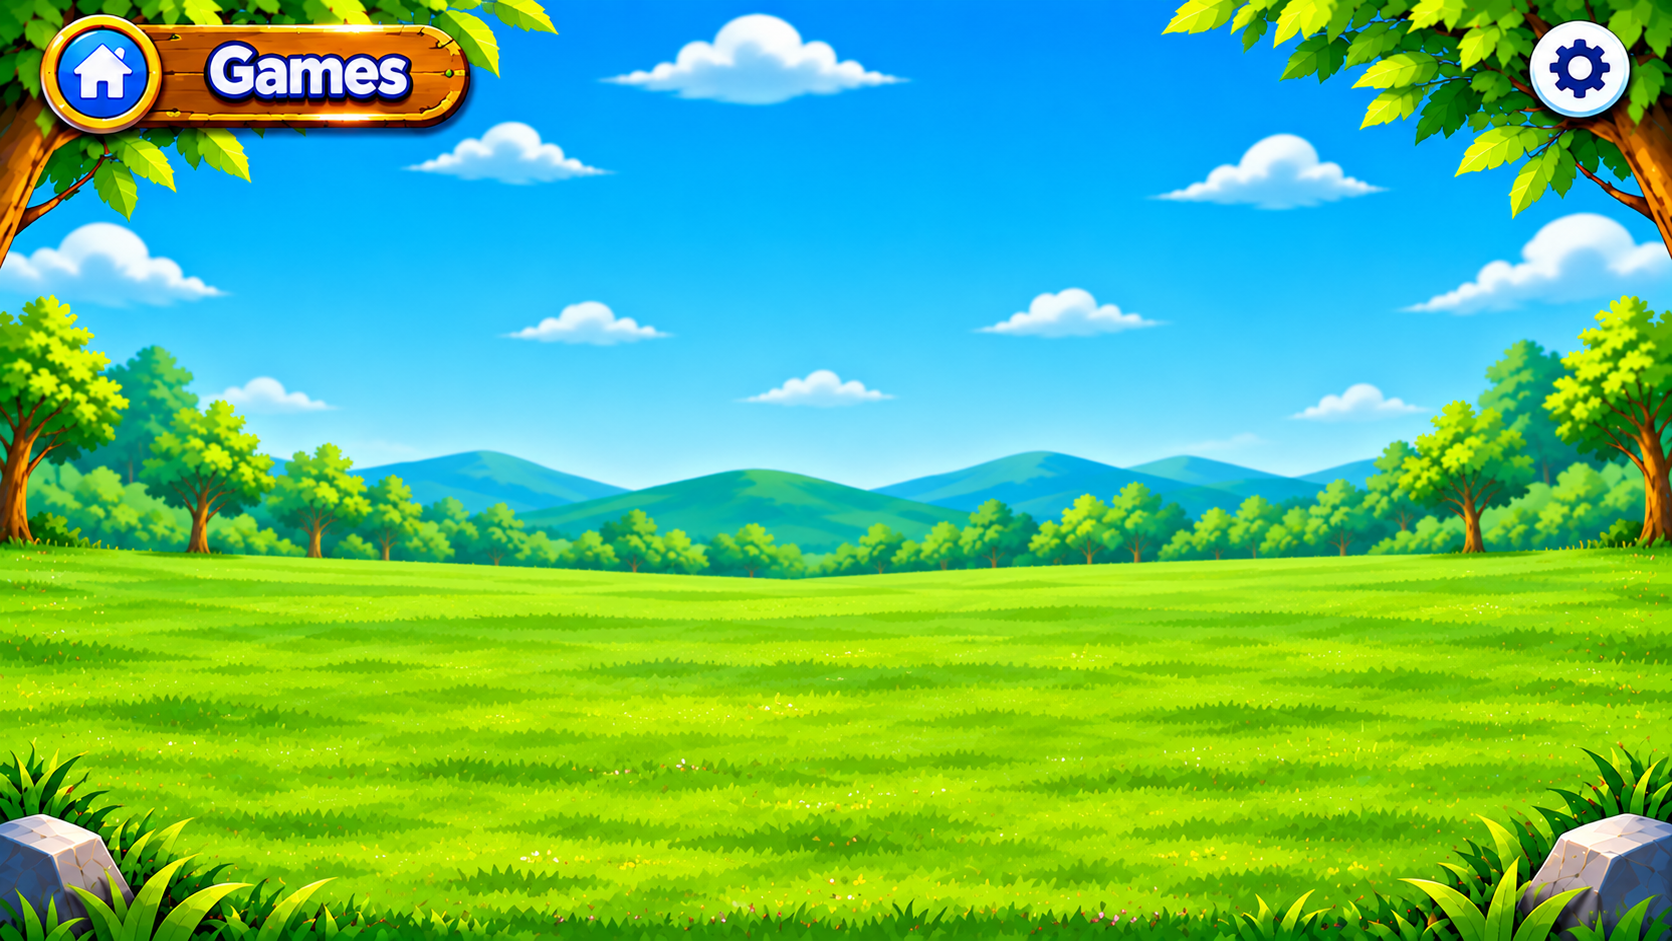
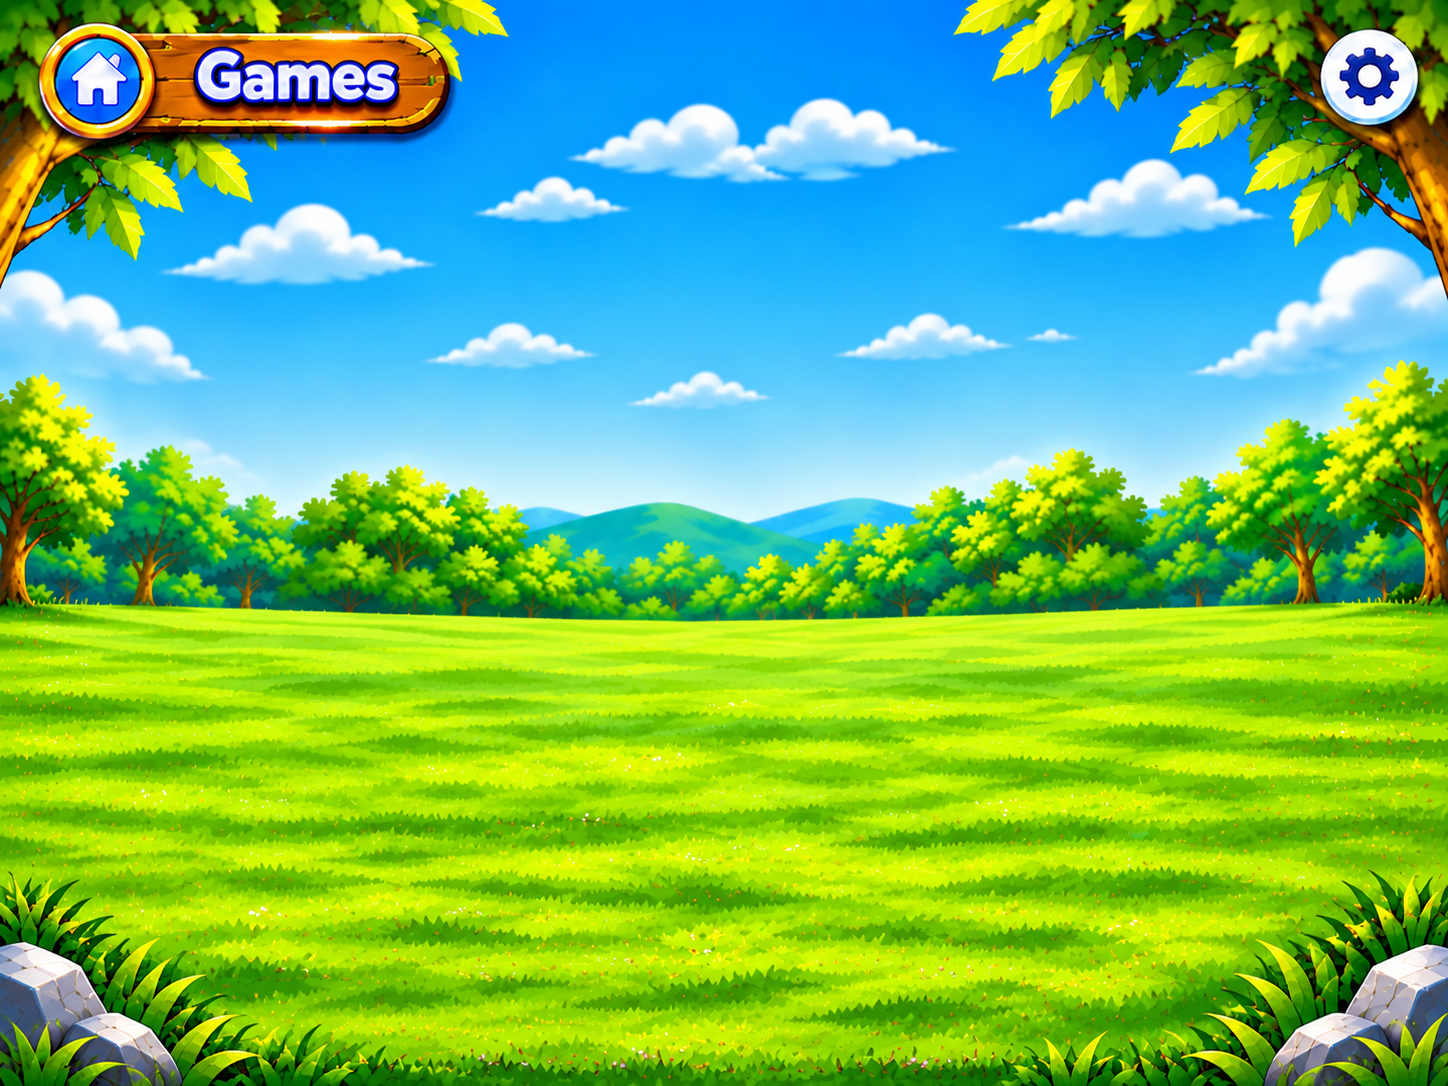
Replace Home/Games/Reading artwork with new 4:3 assets; add Home Layout Tool
New background art for Home, Games, and Reading screens, each ~4:3
(close to a standard iPad's own screen ratio, unlike the previous
~16:9-ish Home art), so they fill the screen with little to no
letterboxing. Icon/button hit-regions repositioned to match each new
image's own drawn elements.

Home screen buttons previously only had a loose CSS-grid auto-layout,
not pixel-matched to specific drawn art -- added a real per-button
pixel-rect map (js/home-overlay.js) plus a Home Layout Tool (Grown-ups
> Home Screen Buttons) so each tile/button can be nudged to line up
with wherever it's actually drawn, same tune-live-then-Copy workflow
as the existing Chores Layout Tool. Refactored that tool's panel shell
CSS into a shared .kz-layout-tool-panel class so both panels reuse it.

diff --git a/js/home-overlay.js b/js/home-overlay.js
@@ -1,14 +1,22 @@
 /* Bind the existing Kid Zone home-screen buttons to the exact hit areas measured off
-   icons/home-background.png (1670 x 941). Does NOT add a new navigation system: app.js
+   icons/home-background.png (1448 x 1086). Does NOT add a new navigation system: app.js
    still owns every click handler, config.js still owns the SECTIONS list -- this only
-   moves the existing #section-grid buttons to sit on top of the matching artwork. */
+   moves the existing #section-grid buttons to sit on top of the matching artwork.
+
+   Also owns the Home Layout Tool (Grown-ups > Home Screen Buttons): a live tuning panel,
+   same "adjust while looking at the real screen, then Copy and bake the numbers in for
+   good" pattern as the Chores Layout Tool (js/kid-rewards.js), just working in this file's
+   own pixel-rect coordinate space instead of CSS custom properties. */
 (() => {
-  const W = 1670, H = 941;
-  const rects = {
-    games: [47, 419, 257, 221], coloring: [310, 419, 256, 221],
-    reading: [572, 419, 253, 221], math: [832, 419, 254, 221],
-    puzzles: [1090, 419, 254, 221], music: [1350, 419, 255, 221],
-    chores: [196, 700, 612, 140], store: [830, 700, 621, 140],
+  const W = 1448, H = 1086;
+  // Starting rects for the current artwork ("Kid_Zone_Home_iPad_1448x1086") -- eyeballed
+  // from the image, not pixel-measured, so expect to nudge them with the tool below.
+  // [x, y, w, h] in artwork pixels, top-left origin.
+  const DEFAULT_RECTS = {
+    games: [36, 505, 210, 239], coloring: [264, 505, 210, 239],
+    reading: [491, 505, 210, 239], math: [718, 505, 210, 239],
+    puzzles: [946, 505, 210, 239], music: [1173, 505, 210, 239],
+    chores: [116, 820, 564, 130], store: [767, 820, 565, 130],
   };
   const labels = {
     games: 'Games', coloring: 'Coloring', reading: 'Reading', math: 'Math',
@@ -19,6 +27,11 @@
   const grid = document.getElementById('section-grid');
   if (!home || !grid) return;
   home.classList.add('kz-art-home');
+
+  // ---- Draft overrides (Home Layout Tool), same "localStorage-only, not shipped" pattern
+  // as js/kid-rewards.js's CHORES_LAYOUT_LOCAL_KEY. ----
+  const HOME_LAYOUT_LOCAL_KEY = 'family-app.home-layout-DRAFT';
+  let rects = { ...DEFAULT_RECTS, ...(getData(HOME_LAYOUT_LOCAL_KEY, null) || {}) };
 
   const apply = () => {
     for (const btn of grid.querySelectorAll('button[data-section]')) {
@@ -40,4 +53,82 @@
   // enters the home screen, so re-apply positions whenever that happens.
   new MutationObserver(apply).observe(grid, { childList: true });
   apply();
+
+  // ---- Home Layout Tool ----
+  const IDS = Object.keys(DEFAULT_RECTS);
+  const FIELD_LABELS = ['Left', 'Up/down', 'Width', 'Height'];
+
+  const panel = document.createElement('aside');
+  panel.id = 'home-layout-panel';
+  panel.className = 'kz-layout-tool-panel hidden';
+  panel.setAttribute('aria-label', 'Home layout tool');
+  panel.innerHTML =
+    `<div class="chores-layout-head"><strong>Home Layout Tool</strong>` +
+    `<button type="button" id="home-layout-done-btn" class="big-btn primary-btn">✅ Done</button></div>` +
+    IDS.map((id) => {
+      const section = `<div class="chores-layout-section">${labels[id]}</div>`;
+      const rows = FIELD_LABELS.map((fieldLabel, i) => {
+        const max = i % 2 === 0 ? W : H; // Left/Width slide across W; Up-down/Height across H
+        return `<label for="hl-${id}-${i}">${fieldLabel} <output id="hl-${id}-${i}-val"></output></label>` +
+          `<input type="range" id="hl-${id}-${i}" min="0" max="${max}" step="1" value="${DEFAULT_RECTS[id][i]}">`;
+      }).join('');
+      return section + rows;
+    }).join('') +
+    `<div class="chores-layout-actions">` +
+    `<button type="button" id="home-layout-reset-btn" class="big-btn">Reset to Default</button>` +
+    `<button type="button" id="home-layout-copy-btn" class="big-btn primary-btn">📋 Copy Rects</button>` +
+    `</div>`;
+  document.body.appendChild(panel);
+
+  function syncSliders() {
+    IDS.forEach((id) => {
+      rects[id].forEach((v, i) => {
+        const input = document.getElementById(`hl-${id}-${i}`);
+        if (input) input.value = v;
+        const out = document.getElementById(`hl-${id}-${i}-val`);
+        if (out) out.textContent = v + 'px';
+      });
+    });
+  }
+  syncSliders();
+
+  IDS.forEach((id) => {
+    [0, 1, 2, 3].forEach((i) => {
+      const input = document.getElementById(`hl-${id}-${i}`);
+      input.addEventListener('input', () => {
+        rects = { ...rects, [id]: rects[id].map((v, j) => (j === i ? Number(input.value) : v)) };
+        apply();
+        syncSliders();
+        setData(HOME_LAYOUT_LOCAL_KEY, rects); // draft only, so re-opening keeps your in-progress numbers
+      });
+    });
+  });
+
+  document.getElementById('home-layout-open-btn').addEventListener('click', () => {
+    window.AppBridge.enterHome();
+    panel.classList.remove('hidden');
+  });
+  document.getElementById('home-layout-done-btn').addEventListener('click', () => {
+    panel.classList.add('hidden');
+    window.AppBridge.enterParentArea();
+  });
+  document.getElementById('home-layout-reset-btn').addEventListener('click', () => {
+    rects = JSON.parse(JSON.stringify(DEFAULT_RECTS));
+    apply();
+    syncSliders();
+    setData(HOME_LAYOUT_LOCAL_KEY, rects);
+  });
+  document.getElementById('home-layout-copy-btn').addEventListener('click', async () => {
+    const text = `const DEFAULT_RECTS = {\n` +
+      IDS.map((id) => `    ${id}: [${rects[id].join(', ')}],`).join('\n') +
+      `\n  };`;
+    const btn = document.getElementById('home-layout-copy-btn');
+    try {
+      await navigator.clipboard.writeText(text);
+      btn.textContent = 'Copied!';
+    } catch {
+      prompt('Copy these rects and send them over:', text);
+    }
+    setTimeout(() => { btn.textContent = '📋 Copy Rects'; }, 1800);
+  });
 })();

diff --git a/reading-carousel.css b/reading-carousel.css
@@ -5,14 +5,12 @@
 
 /* No position override: .screen already sets position:fixed;inset:0 to size the whole screen
    to the viewport -- same fix as games-carousel.css/home-overlay.css needed. */
-/* Locked to the artwork's own 1672x941 ratio and centered/letterboxed in the viewport instead
-   of stretching to fill it (same fix as games-carousel.css/home-overlay.css) -- a standard
-   iPad's screen (landscape ~4:3) is much squarer than this art's ~16:9-ish shape, which was
-   forcing background-size:100% 100% to distort it. Applied to THIS element (not just
-   .screen-inner below) because .sub-header, below, is a sibling of .screen-inner, not a
-   child -- its own % position needs to share the exact same box as everything in .screen-inner
-   to stay aligned with the art's "patched label" it's deliberately positioned under. */
-#subject-screen.kz-reading-redesign{position:fixed;top:50%;left:50%;right:auto;bottom:auto;transform:translate(-50%,-50%);width:100%;height:100%;aspect-ratio:1672/941;max-width:calc(100vh*1672/941);max-height:calc(100vw*941/1672);background:#3ba8ed url('assets/reading-carousel/meadow.png') center/100% 100% no-repeat!important;overflow:hidden}
+/* Locked to the artwork's own 1448x1086 ratio (~4:3, already close to a standard iPad's own
+   screen shape -- little to no letterboxing there) and centered in the viewport instead of
+   stretching to fill it. Applied to THIS element (not just .screen-inner below) because
+   .sub-header, below, is a sibling of .screen-inner, not a child -- its own % position needs
+   to share the exact same box as everything in .screen-inner to stay aligned with the art. */
+#subject-screen.kz-reading-redesign{position:fixed;top:50%;left:50%;right:auto;bottom:auto;transform:translate(-50%,-50%);width:100%;height:100%;aspect-ratio:1448/1086;max-width:calc(100vh*1448/1086);max-height:calc(100vw*1086/1448);background:#3ba8ed url('assets/reading-carousel/meadow.png') center/100% 100% no-repeat!important;overflow:hidden}
 #subject-screen.kz-reading-redesign>.screen-inner>.section-grid{display:none!important}
 #subject-screen.kz-reading-redesign>.screen-inner{position:absolute;inset:0;max-width:none!important;width:100%;height:100%;padding:0!important;margin:0!important;overflow:visible!important}
 
@@ -24,20 +22,21 @@
 #subject-screen:not(.kz-reading-redesign) #kz-reading-carousel{display:none!important}
 
 /* Keep the real level chip working -- just hide the back-button/title text (redundant with the
-   art's own home icon) and reposition the header container itself under the patched label,
-   instead of hiding the whole header (which would also hide the chip, since it's a child of it). */
+   art's own home icon and "Reading" label) and reposition the header container itself to sit
+   just below that plaque, instead of hiding the whole header (which would also hide the chip,
+   since it's a child of it). */
 #subject-screen.kz-reading-redesign>.sub-header{position:absolute;top:13.2%;left:8.8%;width:18%;height:auto;padding:0;margin:0;background:transparent;box-shadow:none;border:0;justify-content:center;z-index:9}
 #subject-screen.kz-reading-redesign>.sub-header>.back-btn,
 #subject-screen.kz-reading-redesign>.sub-header>.sub-header-title{display:none!important}
 
-/* The reused meadow art (same file as the Games screen) still has "Games" baked into its
-   label pill -- no cover/patch over it anymore per request, so that word shows as-is. */
 .kz-reading-home,.kz-reading-settings{display:none}
 
+/* left/top/width/height below are eyeballed from the art's own drawn home-icon/gear-icon
+   circles (in its 1448x1086 pixel grid), not pixel-measured -- nudge if they feel off. */
 #subject-screen.kz-reading-redesign .kz-reading-home,
 #subject-screen.kz-reading-redesign .kz-reading-settings{display:block;position:absolute;z-index:10;border:0;background:transparent;cursor:pointer;touch-action:manipulation}
-#subject-screen.kz-reading-redesign .kz-reading-home{left:2%;top:1%;width:7.5%;height:13%;border-radius:50%}
-#subject-screen.kz-reading-redesign .kz-reading-settings{right:1.5%;top:1%;width:7%;height:12%;border-radius:50%}
+#subject-screen.kz-reading-redesign .kz-reading-home{left:3.6%;top:2.5%;width:6.1%;height:8.4%;border-radius:50%}
+#subject-screen.kz-reading-redesign .kz-reading-settings{right:1.2%;top:2.6%;width:6%;height:8.3%;border-radius:50%}
 
 .kz-reading-card{position:absolute;left:50%;top:49%;width:36%;height:82%;padding:0;border:0;background:transparent;cursor:pointer;will-change:transform,opacity;filter:drop-shadow(0 12px 12px #00305b77);transform-style:preserve-3d;backface-visibility:hidden}
 .kz-reading-card img{width:100%;height:100%;object-fit:contain;pointer-events:none}

diff --git a/home-overlay.css b/home-overlay.css
@@ -1,5 +1,5 @@
 /* Kid Zone home screen artwork overlay.
-   Source artwork: icons/home-background.png, 1670 x 941, unmodified.
+   Source artwork: icons/home-background.png, 1448 x 1086, unmodified.
    This file only repositions existing elements -- app.js/config.js still own every
    click handler and nav route. Loaded after style.css; only applies under #home-screen. */
 
@@ -9,14 +9,13 @@
 #home-screen.kz-art-home { overflow: hidden; }
 
 #home-screen.kz-art-home .home-inner {
-  /* Locked to the artwork's own 1670x941 ratio and centered/letterboxed in the viewport,
-     instead of stretching to fill it -- a standard iPad's screen (landscape ~4:3, much
-     squarer than this art's ~16:9-ish shape) was forcing background-size:100% 100% below to
-     distort the art to fit. Every child here is positioned as a % of THIS box, so locking its
+  /* Locked to the artwork's own 1448x1086 ratio (~4:3, already close to a standard iPad's own
+     screen shape -- little to no letterboxing there) and centered in the viewport instead of
+     stretching to fill it. Every child here is positioned as a % of THIS box, so locking its
      ratio keeps both the art undistorted and every button's alignment with it correct. */
   position: absolute; top: 50%; left: 50%; transform: translate(-50%, -50%);
-  width: 100%; height: 100%; aspect-ratio: 1670 / 941;
-  max-width: calc(100vh * 1670 / 941); max-height: calc(100vw * 941 / 1670);
+  width: 100%; height: 100%; aspect-ratio: 1448 / 1086;
+  max-width: calc(100vh * 1448 / 1086); max-height: calc(100vw * 1086 / 1448);
   padding: 0; margin: 0;
 }
 #home-screen.kz-art-home .home-inner::before {
@@ -54,6 +53,10 @@
   border: 0; background: transparent; box-shadow: none; transform: none;
   opacity: 1; pointer-events: auto; cursor: pointer; border-radius: 17%;
   -webkit-tap-highlight-color: transparent;
+  /* left/top/width/height intentionally NOT set here -- js/home-overlay.js sets those as
+     inline styles (higher specificity than anything here) from its `rects` pixel map, and
+     also drives the Home Layout Tool's live overrides. Don't add them here; they'd just be
+     silently overridden and confusing to read. */
 }
 /* The artwork already shows the icon + label; hide only those two, not the pending-count
    badge or the voice "say it" button, so those stay functional and visible in the corner. */
@@ -69,12 +72,14 @@
 #home-screen.kz-art-home #section-grid > button[data-section="store"] { border-radius: 999px; }
 
 /* Parent gear: hit-region only -- the artwork already draws the gear icon. Positioned inside
-   .home-inner (not .home-header) so its percentages share the same 1670x941 coordinate space
-   as the button rects above. Click handler reuses the existing PIN-gated openParentEntry(). */
+   .home-inner (not .home-header) so its percentages share the same 1448x1086 coordinate space
+   as the button rects above. Click handler reuses the existing PIN-gated openParentEntry().
+   Eyeballed from the art's own drawn gear circle, not pixel-measured -- nudge if it feels off
+   (there's no slider for this one in the Home Layout Tool, just edit the numbers here). */
 #home-screen.kz-art-home #home-parent-settings {
   position: absolute; z-index: 6; background: transparent; border: 0; border-radius: 50%;
   cursor: pointer; -webkit-tap-highlight-color: transparent;
-  left: 91.3174%; top: 2.1254%; width: 5.5689%; height: 9.7768%;
+  right: 1%; top: 2.6%; width: 6.2%; height: 8.3%;
 }
 
 /* Coin/profile chips float over the artwork instead of pushing it down. Not part of the

diff --git a/games-carousel.css b/games-carousel.css
@@ -3,13 +3,15 @@
    once .screen-inner (and everything in it) goes position:absolute below. */
 #games-screen.kz-games-redesign{background:#3ba8ed!important;overflow:hidden}
 #games-screen.kz-games-redesign>.sub-header,#games-screen.kz-games-redesign>.screen-inner>.section-grid{display:none!important}
-/* Locked to the artwork's own 1672x941 ratio and centered/letterboxed in the viewport instead
-   of stretching to fill it -- a standard iPad's screen (landscape ~4:3, much squarer than this
-   art's ~16:9-ish shape) was forcing background-size:100% 100% to distort the art. Every child
-   here (.kz-carousel, the home/settings buttons, etc.) is positioned as a % of THIS box, so
-   locking its ratio keeps both the art undistorted and every button aligned with it. */
-#games-screen.kz-games-redesign>.screen-inner{position:absolute;top:50%;left:50%;right:auto;bottom:auto;transform:translate(-50%,-50%);width:100%;height:100%;aspect-ratio:1672/941;max-width:calc(100vh*1672/941)!important;max-height:calc(100vw*941/1672)!important;padding:0!important;margin:0!important;overflow:visible!important;background:url('assets/games-carousel/games-meadow.png') center/100% 100% no-repeat!important}
-.kz-games-home,.kz-games-settings{position:absolute;z-index:10;border:0;background:transparent;cursor:pointer;touch-action:manipulation}.kz-games-home{left:2%;top:1%;width:7.5%;height:13%;border-radius:50%}.kz-games-settings{right:1.5%;top:1%;width:7%;height:12%;border-radius:50%}
+/* Locked to the artwork's own 1448x1086 ratio (~4:3, already close to a standard iPad's own
+   screen shape -- little to no letterboxing there) and centered in the viewport instead of
+   stretching to fill it. Every child here (.kz-carousel, the home/settings buttons, etc.) is
+   positioned as a % of THIS box, so locking its ratio keeps both the art undistorted and
+   every button aligned with it. */
+#games-screen.kz-games-redesign>.screen-inner{position:absolute;top:50%;left:50%;right:auto;bottom:auto;transform:translate(-50%,-50%);width:100%;height:100%;aspect-ratio:1448/1086;max-width:calc(100vh*1448/1086)!important;max-height:calc(100vw*1086/1448)!important;padding:0!important;margin:0!important;overflow:visible!important;background:url('assets/games-carousel/games-meadow.png') center/100% 100% no-repeat!important}
+/* left/top/width/height below are eyeballed from the art's own drawn home-icon/gear-icon
+   circles (in its 1448x1086 pixel grid), not pixel-measured -- nudge if they feel off. */
+.kz-games-home,.kz-games-settings{position:absolute;z-index:10;border:0;background:transparent;cursor:pointer;touch-action:manipulation}.kz-games-home{left:3.6%;top:2.5%;width:6.1%;height:8.4%;border-radius:50%}.kz-games-settings{right:1.2%;top:2.6%;width:6%;height:8.3%;border-radius:50%}
 .kz-carousel{position:absolute;inset:17% 0 3%;font-family:system-ui,sans-serif;user-select:none;overflow:hidden}
 .kz-carousel-stage{position:absolute;left:10%;right:10%;top:2%;height:76%;perspective:1100px;touch-action:pan-y;cursor:grab}.kz-carousel-stage:active{cursor:grabbing}
 .kz-game-card{position:absolute;left:50%;top:49%;width:36%;height:82%;padding:0;border:0;background:transparent;cursor:pointer;will-change:transform,opacity;filter:drop-shadow(0 12px 12px #00305b77);transform-style:preserve-3d;backface-visibility:hidden}

diff --git a/chores-redesign.css b/chores-redesign.css
@@ -203,17 +203,19 @@
 
 /* ---- Chores Layout Tool: floats over the real Chores screen (Grown-ups > Chores Screen
    Layout > Preview & Adjust). Not scoped to #chores-screen since it's a page-level overlay,
-   like home-photo-live-bar. ---- */
-#chores-layout-panel {
+   like home-photo-live-bar. Shell styling lives on the shared .kz-layout-tool-panel class
+   (also used by the Home Layout Tool, js/home-overlay.js) so both tuning panels look/behave
+   the same without duplicating this block. ---- */
+.kz-layout-tool-panel {
   position: fixed; right: 12px; top: 12px; bottom: 12px; z-index: 60; width: min(360px, calc(100vw - 24px));
   background: #fff; border: 3px solid #2a7dd9; border-radius: 20px; padding: 14px;
   box-shadow: 0 10px 40px rgba(18, 44, 102, .55); color: #122c66; font: 14px system-ui; overflow-y: auto;
 }
-#chores-layout-panel.hidden { display: none; }
+.kz-layout-tool-panel.hidden { display: none; }
 .chores-layout-head { display: flex; align-items: center; justify-content: space-between; gap: 10px; margin-bottom: 4px; }
 .chores-layout-head strong { font-size: 17px; }
 .chores-layout-section { font-size: 14px; font-weight: 900; border-bottom: 1px solid #d6e3f6; padding: 10px 0 4px; margin-top: 8px; }
-#chores-layout-panel label { display: flex; justify-content: space-between; gap: 10px; font-weight: 700; margin-top: 10px; font-size: 13px; }
-#chores-layout-panel input[type=range] { width: 100%; accent-color: #156bd9; margin-top: 2px; }
-#chores-layout-panel .chores-layout-actions { display: flex; gap: 8px; margin-top: 14px; }
-#chores-layout-panel .chores-layout-actions button { flex: 1; }
+.kz-layout-tool-panel label { display: flex; justify-content: space-between; gap: 10px; font-weight: 700; margin-top: 10px; font-size: 13px; }
+.kz-layout-tool-panel input[type=range] { width: 100%; accent-color: #156bd9; margin-top: 2px; }
+.kz-layout-tool-panel .chores-layout-actions { display: flex; gap: 8px; margin-top: 14px; }
+.kz-layout-tool-panel .chores-layout-actions button { flex: 1; }

diff --git a/index.html b/index.html
@@ -776,6 +776,12 @@
         <button type="button" class="big-btn" id="chores-layout-open-btn">📐 Preview &amp; Adjust on Chores Screen</button>
       </div>
 
+      <div class="parent-card" id="home-layout-card">
+        <h3 class="parent-card-title">Home Screen Buttons (tuning tool)</h3>
+        <p class="parent-card-note">Move/resize each home screen button to line up with its spot in the background artwork. This doesn't save permanently -- adjust, tap Copy CSS, and send those numbers over to bake in for good.</p>
+        <button type="button" class="big-btn" id="home-layout-open-btn">📐 Preview &amp; Adjust on Home Screen</button>
+      </div>
+
       <div class="parent-card" id="parent-setup-card">
         <h3 class="parent-card-title">Setup for all iPads</h3>
         <p class="parent-card-note">Chores, store items and coin rules. Changes save instantly and sync to every iPad. Adding a brand-new photo still needs a desktop computer; emoji pictures work anywhere.</p>
@@ -956,7 +962,7 @@
 
   <!-- ================= Chores Layout Tool: floats over the real Chores screen so Grown-ups
        can see the header/banner/pills while adjusting ================= -->
-  <aside id="chores-layout-panel" class="hidden" aria-label="Chores layout tool">
+  <aside id="chores-layout-panel" class="kz-layout-tool-panel hidden" aria-label="Chores layout tool">
     <div class="chores-layout-head">
       <strong>Chores Layout Tool</strong>
       <button type="button" id="chores-layout-done-btn" class="big-btn primary-btn">✅ Done</button>
